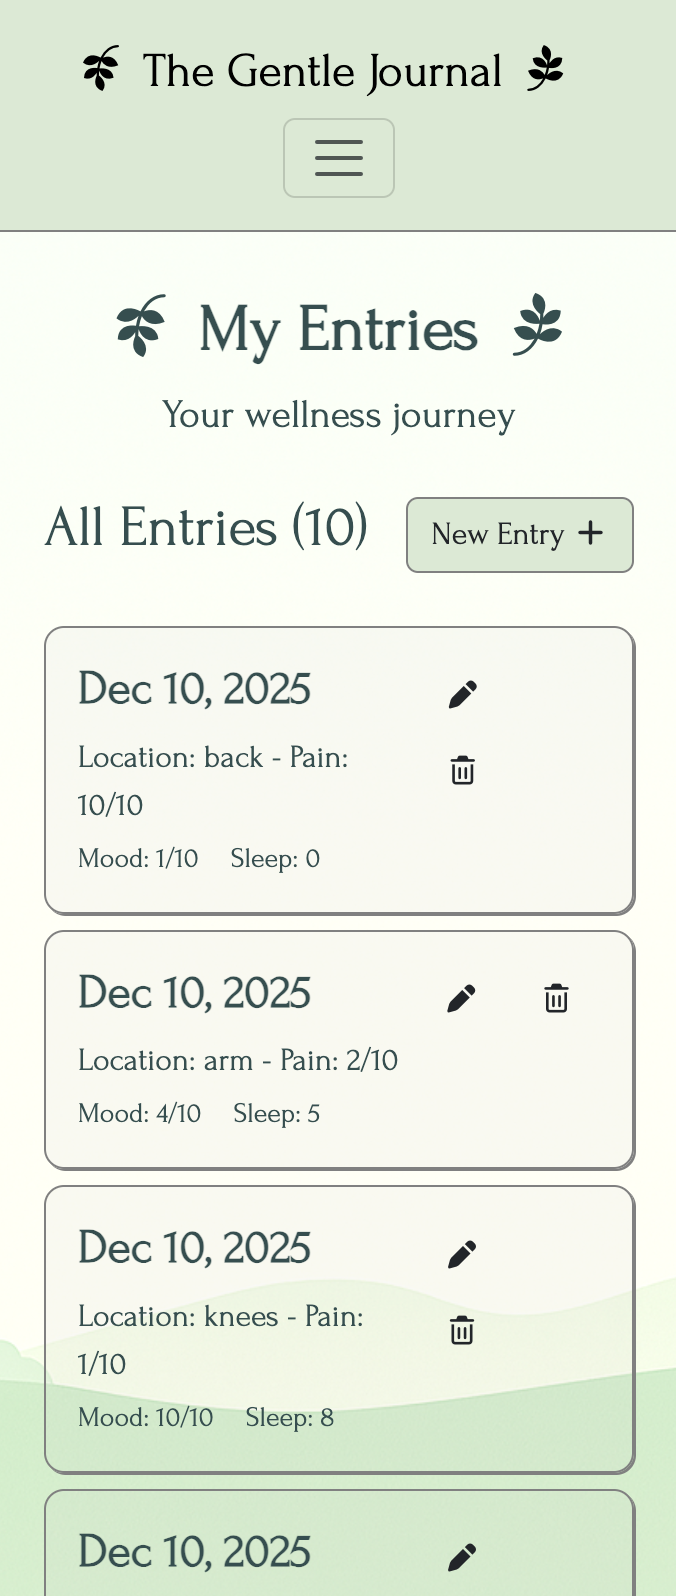
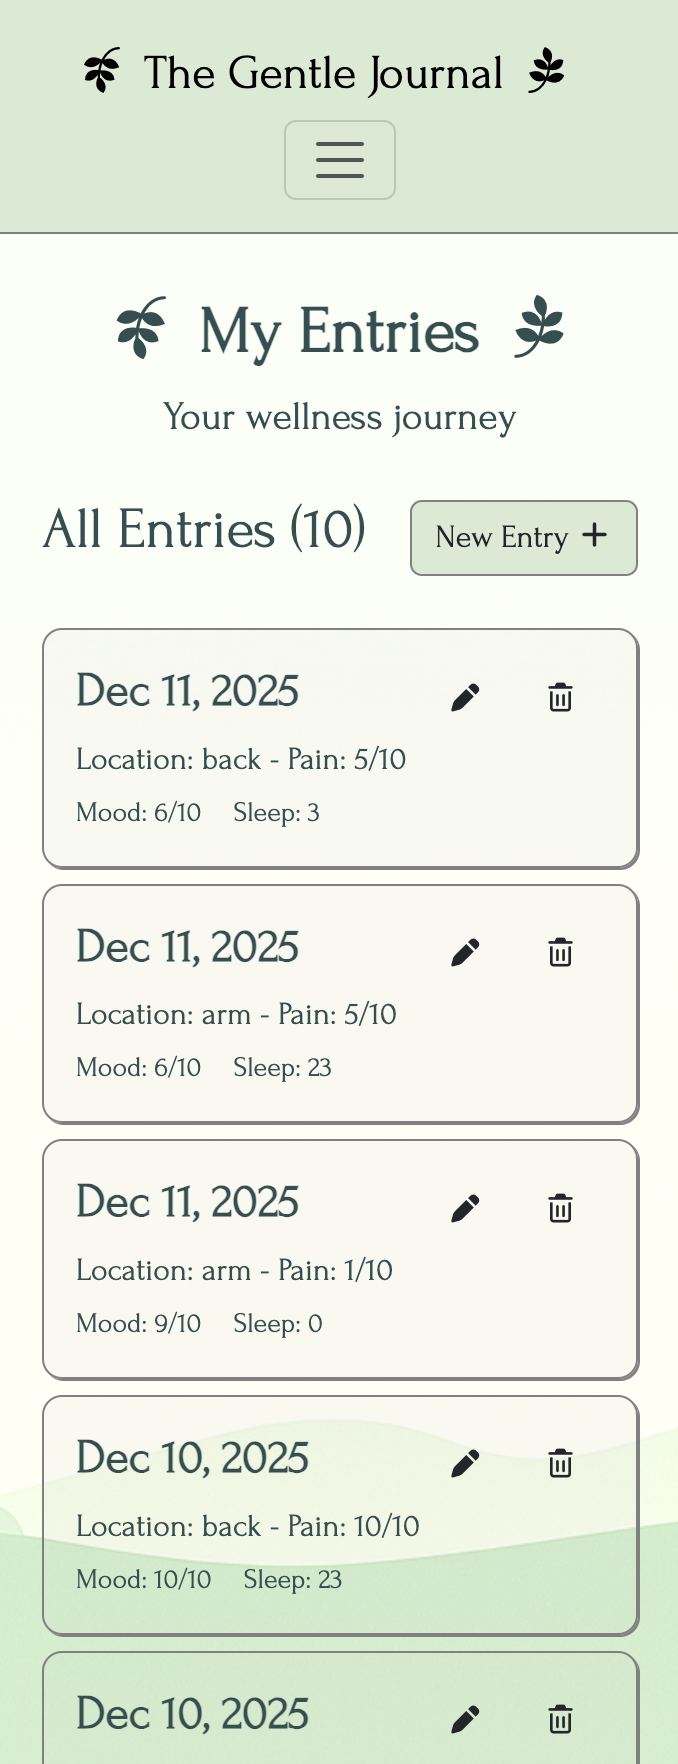
Update README.md with PEP8 validation details and errors encountered; adjust CSS media query for improved mobile responsiveness; add new Python linter error image.

diff --git a/static/css/style.css b/static/css/style.css
@@ -470,7 +470,7 @@ textarea:focus + .field-footer {
 
 /* Mobile responsiveness */
 
-@media screen and (max-width: 375px) {
+@media screen and (max-width: 380px) {
     #centered {
         justify-content: center;
     }

diff --git a/README.md b/README.md
@@ -473,9 +473,20 @@ All validation errors were successfully resolved while maintaining full function
   <img src="static/images/readme/js-validator1.png" width="550" height="350">
 </div>
 
-**PEP8 Stardards**
+**PEP8 Standards**
 
-I used [Code Institutes Python Linter](https://pep8ci.herokuapp.com/) to validate all Python files.
+I used [Code Institute's Python Linter](https://pep8ci.herokuapp.com/) to validate all Python files against PEP8 style guidelines.
+
+**Errors Encountered**
+- **Whitespace and Formatting Issues**: Minor spacing and indentation inconsistencies were identified and resolved following PEP8 conventions
+- **Line Length Violations**: Several lines exceeded the recommended 79-character limit. While most were successfully refactored using line breaks and proper indentation, some instances in complex Django URL patterns and query chains required careful consideration to maintain functionality and readability
+
+All critical PEP8 violations were addressed while ensuring code functionality remained intact. The few remaining line length exceptions were carefully evaluated and deemed necessary to preserve code clarity and Django framework conventions.
+
+<div>
+  <img src="static/images/readme/python-linter-error.png" width="400" height="250">
+  <img src="static/images/readme/python-linter.png" width="400" height="250">
+</div>
 
 <p align="right"><a href="#the-gentle-journal">Back To Top</a></p>
 
